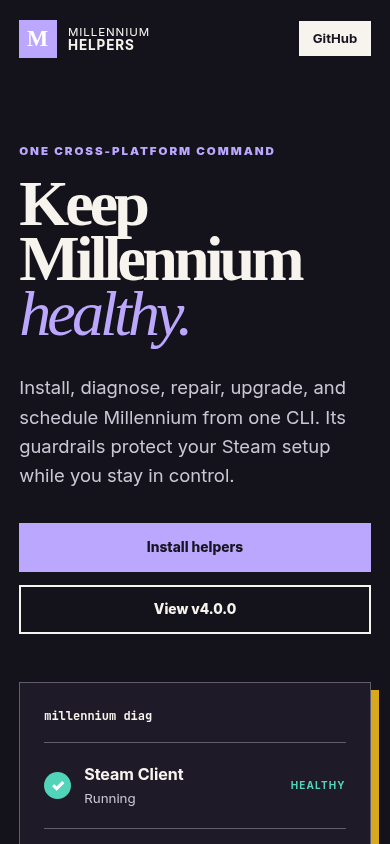
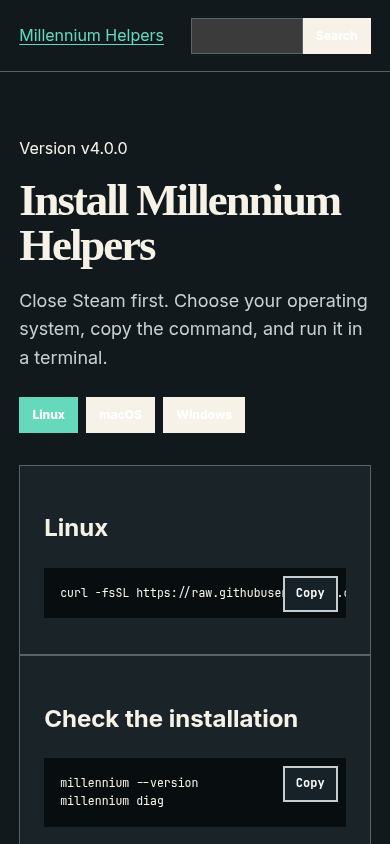
feat(pages): add task-oriented user guides

diff --git a/site/index.html b/site/index.html
@@ -4,17 +4,25 @@
   <meta charset="utf-8">
   <meta name="viewport" content="width=device-width, initial-scale=1">
   <meta name="description" content="Millennium Helpers installs, repairs, updates, and diagnoses Millennium on Linux, macOS, and Windows.">
+  <meta property="og:title" content="Millennium Helpers — keep Millennium healthy">
+  <meta property="og:description" content="Install, diagnose, repair, and update Millennium with plain-language guidance.">
+  <meta property="og:image" content="https://bolens.github.io/millennium-helpers/assets/og.png">
+  <meta name="twitter:card" content="summary_large_image">
   <meta name="theme-color" content="#17151f">
   <title>Millennium Helpers — keep Millennium healthy</title>
   <link rel="stylesheet" href="styles.css">
   <link rel="stylesheet" href="guide.css">
   <link rel="stylesheet" href="accessibility.css">
+  <link rel="stylesheet" href="assets/site.css">
+  <link rel="icon" href="assets/favicon.png" type="image/png">
+  <script src="assets/site.js" defer></script>
 </head>
-<body>
+<body data-root="">
   <a class="skip-link" href="#main">Skip to content</a>
   <header class="site-header">
-    <a class="brand" href="#top"><span class="brand-mark" aria-hidden="true">M</span><span>Millennium<br><b>Helpers</b></span></a>
-    <nav aria-label="Primary navigation"><a href="#install">Install</a><a href="#first-run">First steps</a><a href="#tasks">Common tasks</a><a href="#help">Get help</a><a class="github" href="https://github.com/bolens/millennium-helpers">GitHub</a></nav>
+    <a class="brand" href="./"><span class="brand-mark" aria-hidden="true">M</span><span>Millennium<br><b>Helpers</b></span></a>
+    <nav aria-label="Primary navigation"><a href="install/">Install</a><a href="guide/">Use it</a><a href="help/">Get help</a><a href="architecture/">How it works</a><a class="github" href="https://github.com/bolens/millennium-helpers">GitHub</a></nav>
+    <form class="header-search" action="search/" role="search"><label class="sr-only" for="home-search">Search the guides</label><input id="home-search" name="q" type="search" placeholder="Search guides"><button type="submit">Search</button></form>
   </header>
 
   <main id="main">
@@ -23,7 +31,7 @@
         <p class="kicker">One cross-platform command</p>
         <h1 id="hero-title">Keep Millennium <em>healthy.</em></h1>
         <p class="intro">Install, diagnose, repair, upgrade, and schedule Millennium from one CLI. Its guardrails protect your Steam setup while you stay in control.</p>
-        <div class="actions"><a class="button primary" href="#install">Install helpers</a><a class="button ghost" href="https://github.com/bolens/millennium-helpers/releases/latest">View v4.0.0</a></div>
+        <div class="actions"><a class="button primary" href="install/">Install helpers</a><a class="button ghost" href="https://github.com/bolens/millennium-helpers/releases/latest">View __SITE_VERSION__</a></div>
       </div>
       <div class="status-card" aria-label="Example Millennium diagnostic results">
         <p class="card-label">millennium diag</p>
@@ -44,7 +52,7 @@
         <article><span>03</span><h3>Repair</h3><code>millennium doctor</code><p>Apply targeted fixes with confirmation and dry-run support.</p></article>
         <article><span>04</span><h3>Maintain</h3><code>millennium upgrade</code><p>Update safely, roll back when needed, and manage themes.</p></article>
       </div>
-      <a class="architecture" href="docs/architecture/millennium-helpers.html">Explore the command architecture <span aria-hidden="true">↗</span></a>
+      <a class="architecture" href="architecture/">Learn how the helper works <span aria-hidden="true">↗</span></a>
     </section>
 
     <section class="safety" aria-labelledby="safety-title">
@@ -96,10 +104,10 @@ millennium config theme NAME</code></pre></article>
 
     <section class="technical" aria-labelledby="technical-title">
       <div><p class="kicker">Technical documentation</p><h2 id="technical-title">Packaging, automation, or integration?</h2><p>The repository contains command reference material, package-maintainer notes, MCP setup, release procedures, and contributor guidance.</p></div>
-      <ul><li><a href="https://github.com/bolens/millennium-helpers/tree/main/docs">Technical documentation</a></li><li><a href="docs/architecture/millennium-helpers.html">Interactive architecture map</a></li><li><a href="https://github.com/bolens/millennium-helpers/blob/main/spec/cli-contract.yaml">CLI contract</a></li><li><a href="https://github.com/bolens/millennium-helpers/blob/main/CONTRIBUTING.md">Contributing guide</a></li></ul>
+      <ul><li><a href="https://github.com/bolens/millennium-helpers/tree/main/docs">Technical documentation</a></li><li><a href="architecture/">How the helper works</a></li><li><a href="https://github.com/bolens/millennium-helpers/blob/main/spec/cli-contract.yaml">CLI contract</a></li><li><a href="https://github.com/bolens/millennium-helpers/blob/main/CONTRIBUTING.md">Contributing guide</a></li></ul>
     </section>
   </main>
 
-  <footer><p><strong>Millennium Helpers</strong> · Independent tooling for Millennium.</p><nav aria-label="Footer navigation"><a href="https://github.com/bolens/millennium-helpers/releases">Releases</a><a href="https://github.com/bolens/millennium-helpers/tree/main/docs">Guides</a><a href="https://github.com/bolens/millennium-helpers/blob/main/LICENSE">MIT License</a></nav></footer>
+  <footer><p><strong>Millennium Helpers</strong> · Independent tooling for Millennium.</p><nav aria-label="Footer navigation"><a href="https://github.com/bolens/millennium-helpers/releases">Releases</a><a href="https://github.com/bolens/millennium-helpers/tree/main/docs">Guides</a><a href="https://github.com/bolens/millennium-helpers/blob/main/LICENSE">MIT License</a><a href="https://github.com/bolens/millennium-helpers/issues/new?title=Pages%20feedback%3A%20&amp;body=Page%3A%20%0A%0AWhat%20would%20make%20this%20page%20more%20helpful%3F%0A">Was this site helpful?</a></nav></footer>
 </body>
 </html>

diff --git a/site/assets/site.css b/site/assets/site.css
@@ -1,0 +1,1 @@
+:root{--guide-bg:#f5f2e9;--guide-card:#fffdf7;--guide-ink:#141b21;--guide-muted:#4d5960;--guide-line:#b9b3a5;--guide-accent:#075f53;--guide-focus:#006dff;--guide-code:#0b1115;--guide-code-text:#f7f4e9;color-scheme:light;font-family:Inter,ui-sans-serif,system-ui,-apple-system,BlinkMacSystemFont,"Segoe UI",sans-serif;font-size:18px;line-height:1.6}*{box-sizing:border-box}html{scroll-behavior:smooth}body{margin:0;background:var(--guide-bg);color:var(--guide-ink)}a{color:var(--guide-accent);text-underline-offset:.2em}a:hover{text-decoration-thickness:3px}a:focus-visible,button:focus-visible,input:focus-visible,pre:focus-visible{outline:4px solid var(--guide-focus);outline-offset:3px}.sr-only{position:absolute!important;width:1px;height:1px;padding:0;margin:-1px;overflow:hidden;clip:rect(0,0,0,0);white-space:nowrap;border:0}.skip-link{position:fixed;z-index:20;left:1rem;top:1rem;transform:translateY(-180%);background:#fff;color:#000;padding:.6rem 1rem;font-weight:800}.skip-link:focus{transform:none}.docs-header{max-width:1120px;margin:auto;padding:1.1rem 2rem;display:flex;align-items:center;justify-content:space-between;border-bottom:1px solid var(--guide-line)}.docs-brand{color:var(--guide-ink);font-weight:900;text-decoration:none}.docs-nav{display:flex;align-items:center;gap:1rem}.docs-nav a{color:var(--guide-ink);font-size:.8rem;font-weight:750;text-decoration:none}.docs-search{display:flex}.docs-search input{width:10rem;border:1px solid var(--guide-line);background:var(--guide-card);color:var(--guide-ink);padding:.45rem .6rem}.docs-search button,.platform-picker button,.copy-button{border:2px solid var(--guide-ink);background:var(--guide-ink);color:#fff;font:inherit;font-size:.75rem;font-weight:850;padding:.4rem .7rem;cursor:pointer}.page-main{max-width:1120px;margin:auto;padding:5rem 2rem 7rem}.breadcrumbs{font-size:.78rem;margin-bottom:2rem}.page-hero{max-width:800px;margin-bottom:4rem}.page-kicker{text-transform:uppercase;letter-spacing:.15em;font-size:.7rem;font-weight:900;color:var(--guide-accent)}.page-hero h1{font-family:Georgia,"Times New Roman",serif;font-size:clamp(3rem,7vw,6rem);line-height:.95;letter-spacing:-.055em;margin:.3rem 0 1.2rem}.page-hero p{font-size:1.12rem;color:var(--guide-muted)}.page-grid{display:grid;grid-template-columns:repeat(2,1fr);gap:1rem}.doc-card{background:var(--guide-card);border:1px solid var(--guide-line);padding:1.6rem}.doc-card h2,.doc-card h3{margin-top:0}.doc-card p{color:var(--guide-muted)}pre{position:relative;background:var(--guide-code);color:var(--guide-code-text);padding:1rem 4.5rem 1rem 1rem;overflow:auto;font-size:.72rem}.copy-button{position:absolute;right:.5rem;top:.5rem;border-color:#c6cdd1;background:#172128}.platform-picker{display:flex;flex-wrap:wrap;gap:.5rem;margin:1.5rem 0 2rem}.platform-picker button[aria-pressed="true"]{background:var(--guide-accent);border-color:var(--guide-accent)}[hidden]{display:none!important}.task-list{border-top:1px solid var(--guide-line)}.task{padding:1.5rem 0;border-bottom:1px solid var(--guide-line);display:grid;grid-template-columns:1fr 1fr;gap:2rem;align-items:start}.task h2{margin-top:0}.callout{margin:2rem 0;padding:1.4rem;background:var(--guide-accent);color:#fff}.callout a{color:#fff}.search-page-form{display:flex;max-width:700px}.search-page-form input{flex:1;min-width:0;padding:.8rem;border:2px solid var(--guide-ink);font:inherit}.search-page-form button{border:2px solid var(--guide-ink);background:var(--guide-ink);color:#fff;padding:.8rem 1rem;font-weight:850}.search-results{list-style:none;padding:0;margin:2rem 0}.search-results li{padding:1rem 0;border-bottom:1px solid var(--guide-line)}.search-results a{font-size:1.1rem;font-weight:850}.search-results p{margin:.25rem 0;color:var(--guide-muted)}.feedback{margin-top:4rem;padding-top:2rem;border-top:1px solid var(--guide-line);font-size:.85rem}.docs-footer{max-width:1120px;margin:auto;padding:2rem;border-top:1px solid var(--guide-line);display:flex;justify-content:space-between;gap:1rem;font-size:.78rem}.docs-footer nav{display:flex;gap:1rem}@media(max-width:850px){.docs-nav>a{display:none}.page-grid,.task{grid-template-columns:1fr}.page-main{padding-top:3rem}}@media(max-width:520px){:root{font-size:16px}.docs-header,.page-main,.docs-footer{padding-inline:1.2rem}.docs-search input{width:7rem}.page-hero h1{font-size:3.25rem}.docs-footer{flex-direction:column}}@media(prefers-reduced-motion:reduce){html{scroll-behavior:auto}*{animation:none!important;transition:none!important}}@media(prefers-color-scheme:dark){:root{color-scheme:dark;--guide-bg:#12191d;--guide-card:#192328;--guide-ink:#f6f2e8;--guide-muted:#c7d0d4;--guide-line:#58636a;--guide-accent:#66d9bd;--guide-focus:#78aaff;--guide-code:#080d10}.docs-search button,.platform-picker button,.search-page-form button{background:#f6f2e8;color:#101820}.platform-picker button[aria-pressed="true"]{background:#064f46;color:#fff}.callout{background:#064f46}}@media(forced-colors: active){*{box-shadow:none!important}.copy-button,.platform-picker button,.docs-search button,.search-page-form button{border:2px solid ButtonText}.platform-picker button[aria-pressed="true"]{outline:3px solid Highlight}.callout{border:2px solid CanvasText}.sr-only{forced-color-adjust:none}}

diff --git a/site/assets/site.js b/site/assets/site.js
@@ -1,0 +1,122 @@
+(() => {
+  "use strict";
+
+  const root = document.body.dataset.root || "";
+  const live = document.createElement("p");
+  live.className = "sr-only";
+  live.setAttribute("aria-live", "polite");
+  document.body.append(live);
+
+  const copyText = async (text) => {
+    if (navigator.clipboard && window.isSecureContext) {
+      await navigator.clipboard.writeText(text);
+      return;
+    }
+    const area = document.createElement("textarea");
+    area.value = text;
+    area.setAttribute("readonly", "");
+    area.style.position = "fixed";
+    area.style.opacity = "0";
+    document.body.append(area);
+    area.select();
+    document.execCommand("copy");
+    area.remove();
+  };
+
+  document.querySelectorAll("pre").forEach((pre) => {
+    if (!pre.querySelector("code") || pre.querySelector(".copy-button")) return;
+    const button = document.createElement("button");
+    button.type = "button";
+    button.className = "copy-button";
+    button.textContent = "Copy";
+    button.setAttribute("aria-label", "Copy command");
+    button.addEventListener("click", async () => {
+      try {
+        await copyText(pre.querySelector("code").innerText);
+        button.textContent = "Copied";
+        live.textContent = "Command copied to clipboard.";
+        window.setTimeout(() => {
+          button.textContent = "Copy";
+        }, 1800);
+      } catch {
+        live.textContent = "Copy failed. Select the command and copy it manually.";
+      }
+    });
+    pre.append(button);
+  });
+
+  const platformButtons = [...document.querySelectorAll("[data-os]")];
+  const platformPanels = [...document.querySelectorAll("[data-platforms]")];
+  const selectPlatform = (platform) => {
+    platformButtons.forEach((button) => {
+      button.setAttribute("aria-pressed", String(button.dataset.os === platform));
+    });
+    platformPanels.forEach((panel) => {
+      panel.hidden = !panel.dataset.platforms.split(" ").includes(platform);
+    });
+    try {
+      localStorage.setItem("docs-platform", platform);
+    } catch {}
+  };
+  if (platformButtons.length) {
+    platformButtons.forEach((button) => {
+      button.addEventListener("click", () => selectPlatform(button.dataset.os));
+    });
+    let selected;
+    try {
+      selected = localStorage.getItem("docs-platform");
+    } catch {}
+    if (!selected) {
+      const platform = navigator.platform.toLowerCase();
+      selected = platform.includes("win") ? "windows" : platform.includes("mac") ? "macos" : "linux";
+    }
+    if (!platformButtons.some((button) => button.dataset.os === selected)) selected = platformButtons[0].dataset.os;
+    selectPlatform(selected);
+  }
+
+  const searchForm = document.querySelector("[data-search-form]");
+  if (searchForm && !document.querySelector("[data-search-results]")) {
+    searchForm.addEventListener("submit", (event) => {
+      event.preventDefault();
+      const query = new FormData(searchForm).get("q");
+      window.location.href = root + "search/?q=" + encodeURIComponent(query);
+    });
+  }
+
+  const results = document.querySelector("[data-search-results]");
+  if (results) {
+    const input = document.querySelector("[data-search-input]");
+    const count = document.querySelector("[data-search-count]");
+    const runSearch = async () => {
+      const query = input.value.trim().toLowerCase();
+      const response = await fetch(root + "search-index.json");
+      const records = await response.json();
+      const matches = query
+        ? records.filter((record) => (record.title + " " + record.summary + " " + record.keywords).toLowerCase().includes(query))
+        : records;
+      results.replaceChildren(...matches.map((record) => {
+        const item = document.createElement("li");
+        const link = document.createElement("a");
+        link.href = root + record.url;
+        link.textContent = record.title;
+        const summary = document.createElement("p");
+        summary.textContent = record.summary;
+        item.append(link, summary);
+        return item;
+      }));
+      count.textContent = matches.length + (matches.length === 1 ? " result" : " results");
+    };
+    const initial = new URLSearchParams(window.location.search).get("q") || "";
+    input.value = initial;
+    document.querySelector("[data-search-form]").addEventListener("submit", (event) => {
+      event.preventDefault();
+      const url = new URL(window.location.href);
+      url.searchParams.set("q", input.value);
+      history.replaceState({}, "", url);
+      runSearch();
+    });
+    runSearch().catch(() => {
+      count.textContent = "Search is unavailable. Use the navigation links instead.";
+    });
+  }
+})();

diff --git a/site/install/index.html b/site/install/index.html
@@ -1,0 +1,3 @@
+<!doctype html><html lang="en"><head><meta charset="utf-8"><meta name="viewport" content="width=device-width,initial-scale=1"><meta name="description" content="Install Millennium Helpers on Linux, macOS, or Windows."><meta property="og:title" content="Install Millennium Helpers"><meta property="og:description" content="Choose your operating system and install Millennium Helpers."><meta property="og:image" content="https://bolens.github.io/millennium-helpers/assets/og.png"><title>Install | Millennium Helpers</title><link rel="icon" href="../assets/favicon.png"><link rel="stylesheet" href="../assets/site.css"><link rel="stylesheet" href="../assets/millennium.css"><script src="../assets/site.js" defer></script></head><body data-root="../"><a class="skip-link" href="#main">Skip to content</a><header class="docs-header"><a href="../">Millennium Helpers</a><nav aria-label="Primary"><a aria-current="page" href="./">Install</a><a href="../guide/">Use it</a><a href="../help/">Get help</a><a href="../architecture/">How it works</a></nav><form class="header-search" action="../search/" role="search"><label class="visually-hidden" for="search">Search guides</label><input id="search" name="q" type="search"><button>Search</button></form></header><main id="main" class="docs-main"><p class="eyebrow">Version __SITE_VERSION__</p><h1>Install Millennium Helpers</h1><p class="lede">Close Steam first. Choose your operating system, copy the command, and run it in a terminal.</p><div class="os-picker" aria-label="Operating system"><button data-os="linux" aria-pressed="true">Linux</button><button data-os="macos" aria-pressed="false">macOS</button><button data-os="windows" aria-pressed="false">Windows</button></div><section data-platforms="linux"><h2>Linux</h2><pre><code>curl -fsSL https://raw.githubusercontent.com/bolens/millennium-helpers/main/install.sh | bash -s -- install</code></pre></section><section data-platforms="macos" hidden><h2>macOS</h2><pre><code>brew tap bolens/tap
+brew install millennium-helpers</code></pre></section><section data-platforms="windows" hidden><h2>Windows</h2><pre><code>winget install bolens.millenniumhelpers</code></pre><p>Scoop is also supported from the project manifest.</p></section><section><h2>Check the installation</h2><pre><code>millennium --version
+millennium diag</code></pre><p>The diagnostic command reads your setup and does not change files.</p></section><p><a class="button" href="../guide/">Continue to the first steps</a></p></main><footer><a href="https://github.com/bolens/millennium-helpers/issues/new?title=Pages%20feedback%3A%20Install&amp;body=Page%3A%20install%0A%0AWhat%20would%20make%20this%20page%20more%20helpful%3F">Was this page helpful?</a></footer></body></html>

diff --git a/site/guide/index.html b/site/guide/index.html
@@ -1,0 +1,2 @@
+<!doctype html><html lang="en"><head><meta charset="utf-8"><meta name="viewport" content="width=device-width,initial-scale=1"><meta name="description" content="Use Millennium Helpers for health checks, repairs, updates, themes, and plugins."><meta property="og:title" content="Use Millennium Helpers"><meta property="og:description" content="Plain-language steps for common Millennium maintenance tasks."><meta property="og:image" content="https://bolens.github.io/millennium-helpers/assets/og.png"><title>Use it | Millennium Helpers</title><link rel="icon" href="../assets/favicon.png"><link rel="stylesheet" href="../assets/site.css"><link rel="stylesheet" href="../assets/millennium.css"><script src="../assets/site.js" defer></script></head><body data-root="../"><a class="skip-link" href="#main">Skip to content</a><header class="docs-header"><a href="../">Millennium Helpers</a><nav aria-label="Primary"><a href="../install/">Install</a><a aria-current="page" href="./">Use it</a><a href="../help/">Get help</a><a href="../architecture/">How it works</a></nav></header><main id="main" class="docs-main"><p class="eyebrow">Everyday guide</p><h1>Keep Millennium working</h1><p class="lede">Start with a health check. Close Steam before a repair, update, or rollback.</p><div class="task-grid"><article><h2 id="check-your-setup">Check your setup</h2><pre><code>millennium diag</code></pre><p>This is safe to run first because it only reads your setup.</p></article><article><h2 id="repair-a-reported-problem">Repair a reported problem</h2><pre><code>millennium doctor</code></pre><p>Review every proposed change before confirming it.</p></article><article><h2 id="update-millennium">Update Millennium</h2><pre><code>millennium upgrade</code></pre></article><article><h2>Enable daily updates</h2><pre><code>millennium schedule enable stable</code></pre></article><article><h2 id="choose-a-theme">Choose a theme</h2><pre><code>millennium theme list
+millennium config theme NAME</code></pre></article><article><h2>Manage plugins</h2><pre><code>millennium config plugins</code></pre></article></div><p><a href="../help/">Something went wrong? Open the help guide.</a></p></main><footer><a href="https://github.com/bolens/millennium-helpers/issues/new?title=Pages%20feedback%3A%20Guide&amp;body=Page%3A%20guide%0A%0AWhat%20would%20make%20this%20page%20more%20helpful%3F">Was this page helpful?</a></footer></body></html>

diff --git a/site/help/index.html b/site/help/index.html
@@ -1,0 +1,1 @@
+<!doctype html><html lang="en"><head><meta charset="utf-8"><meta name="viewport" content="width=device-width,initial-scale=1"><meta name="description" content="Solve common Millennium installation, update, theme, and plugin problems."><meta property="og:title" content="Millennium Helpers help"><meta property="og:description" content="Start with the symptom and follow a focused recovery step."><meta property="og:image" content="https://bolens.github.io/millennium-helpers/assets/og.png"><title>Get help | Millennium Helpers</title><link rel="icon" href="../assets/favicon.png"><link rel="stylesheet" href="../assets/site.css"><link rel="stylesheet" href="../assets/millennium.css"><script src="../assets/site.js" defer></script></head><body data-root="../"><a class="skip-link" href="#main">Skip to content</a><header class="docs-header"><a href="../">Millennium Helpers</a><nav aria-label="Primary"><a href="../install/">Install</a><a href="../guide/">Use it</a><a aria-current="page" href="./">Get help</a><a href="../architecture/">How it works</a></nav></header><main id="main" class="docs-main"><p class="eyebrow">Troubleshooting</p><h1>Start with what you see</h1><div class="task-grid"><article><h2>Steam starts without Millennium</h2><p>Close Steam, run <code>millennium diag</code>, then run <code>millennium doctor</code> if the hook check fails.</p></article><article><h2>An update did not finish</h2><p>Keep Steam closed. Run the diagnostic command, then retry <code>millennium upgrade</code>.</p></article><article><h2>A theme or plugin causes trouble</h2><p>Run <code>millennium config plugins</code>, disable the recent change, save, and restart Steam.</p></article><article><h2>You need to share a report</h2><pre><code>millennium diag --share</code></pre><p>Review the sanitized report before sharing its link.</p></article></div><h2>Still stuck?</h2><p><a href="https://github.com/bolens/millennium-helpers/issues/new?title=Support%3A%20&amp;body=Operating%20system%3A%20%0AHelpers%20version%3A%20%0AWhat%20happened%3A%20%0ADiagnostic%20output%3A%20">Open a support issue with the useful fields ready</a>.</p></main><footer><a href="https://github.com/bolens/millennium-helpers/issues/new?title=Pages%20feedback%3A%20Help&amp;body=Page%3A%20help%0A%0AWhat%20would%20make%20this%20page%20more%20helpful%3F">Was this page helpful?</a></footer></body></html>

diff --git a/site/architecture/index.html b/site/architecture/index.html
@@ -1,0 +1,1 @@
+<!doctype html><html lang="en"><head><meta charset="utf-8"><meta name="viewport" content="width=device-width,initial-scale=1"><meta name="description" content="A plain-language introduction to how Millennium Helpers works."><meta property="og:title" content="How Millennium Helpers works"><meta property="og:description" content="Understand the command, safety, platform, and release layers before opening the technical map."><meta property="og:image" content="https://bolens.github.io/millennium-helpers/assets/og.png"><title>How it works | Millennium Helpers</title><link rel="icon" href="../assets/favicon.png"><link rel="stylesheet" href="../assets/site.css"><link rel="stylesheet" href="../assets/millennium.css"><script src="../assets/site.js" defer></script></head><body data-root="../"><a class="skip-link" href="#main">Skip to content</a><header class="docs-header"><a href="../">Millennium Helpers</a><nav aria-label="Primary"><a href="../install/">Install</a><a href="../guide/">Use it</a><a href="../help/">Get help</a><a aria-current="page" href="./">How it works</a></nav></header><main id="main" class="docs-main"><p class="eyebrow">System overview</p><h1>How Millennium Helpers works</h1><p class="lede">One command coordinates platform-specific work while keeping risky changes visible and recoverable.</p><ol class="architecture-steps"><li><strong>You choose a task.</strong> Commands cover diagnosis, repair, updates, schedules, themes, and plugins.</li><li><strong>Safety checks run first.</strong> The helper checks Steam state, validates inputs, and offers previews or confirmation where needed.</li><li><strong>The platform adapter does the work.</strong> Linux, macOS, and Windows use the same command contract with native paths and schedulers.</li><li><strong>You receive a clear result.</strong> Diagnostics and logs explain what changed and what to do next.</li></ol><p><a class="button" href="../docs/architecture/millennium-helpers.html">Open the interactive technical topology</a></p><p>The topology is keyboard accessible and includes a text description for each system area.</p></main><footer><a href="https://github.com/bolens/millennium-helpers/issues/new?title=Pages%20feedback%3A%20Architecture&amp;body=What%20was%20unclear%3F%20">Was this explanation clear?</a></footer></body></html>

diff --git a/site/assets/millennium.css b/site/assets/millennium.css
@@ -1,0 +1,1 @@
+.docs-main{max-width:1120px;margin:auto;padding:5rem 2rem 7rem}.docs-main>h1{font-family:Georgia,"Times New Roman",serif;font-size:clamp(2.8rem,7vw,5.5rem);line-height:1;letter-spacing:-.045em;margin:.4rem 0 1.2rem}.docs-main>.lede{max-width:760px;font-size:1.12rem;color:var(--guide-muted)}.docs-header>nav{display:flex;gap:1rem}.docs-header>nav a{color:var(--guide-ink);font-size:.8rem;font-weight:750;text-decoration:none}.header-search{display:flex}.header-search input{width:10rem;padding:.45rem;border:1px solid var(--guide-line)}.header-search button,.os-picker button{border:2px solid var(--guide-ink);background:var(--guide-ink);color:#fff;font:inherit;font-size:.75rem;font-weight:850;padding:.4rem .7rem}.os-picker{display:flex;gap:.5rem;margin:1.5rem 0 2rem}.os-picker button[aria-pressed="true"]{background:var(--guide-accent);border-color:var(--guide-accent)}.task-grid{display:grid;grid-template-columns:repeat(2,1fr);gap:1rem;margin:2rem 0}.task-grid article,.docs-main>section{background:var(--guide-card);border:1px solid var(--guide-line);padding:1.5rem}.docs-main pre{position:relative;background:var(--guide-code);color:var(--guide-code-text);padding:1rem 4.5rem 1rem 1rem;overflow:auto}.docs-main+footer{max-width:1120px;margin:auto;padding:2rem;border-top:1px solid var(--guide-line)}.architecture-steps{max-width:760px}.architecture-steps li{margin:1rem 0}.visually-hidden{position:absolute!important;width:1px;height:1px;padding:0;margin:-1px;overflow:hidden;clip:rect(0,0,0,0);white-space:nowrap;border:0}@media(max-width:850px){.docs-header>nav a{display:none}.task-grid{grid-template-columns:1fr}.docs-main{padding-top:3rem}}@media(max-width:520px){.docs-main{padding-inline:1.2rem}.header-search input{width:7rem}}@media(forced-colors: active){.os-picker button,.header-search button{border:2px solid ButtonText}.os-picker button[aria-pressed="true"]{outline:3px solid Highlight}}

diff --git a/site/search/index.html b/site/search/index.html
@@ -1,0 +1,1 @@
+<!doctype html><html lang="en"><head><meta charset="utf-8"><meta name="viewport" content="width=device-width,initial-scale=1"><meta name="description" content="Search the Millennium Helpers user guides."><meta property="og:title" content="Search Millennium Helpers guides"><meta property="og:description" content="Find installation, maintenance, and troubleshooting instructions."><meta property="og:image" content="https://bolens.github.io/millennium-helpers/assets/og.png"><title>Search | Millennium Helpers</title><link rel="icon" href="../assets/favicon.png"><link rel="stylesheet" href="../assets/site.css"><link rel="stylesheet" href="../assets/millennium.css"><script src="../assets/site.js" defer></script></head><body data-root="../"><a class="skip-link" href="#main">Skip to content</a><header class="docs-header"><a href="../">Millennium Helpers</a><nav aria-label="Primary"><a href="../install/">Install</a><a href="../guide/">Use it</a><a href="../help/">Get help</a></nav></header><main id="main" class="docs-main"><h1>Search the guides</h1><form role="search" data-search-form><label for="page-search">What do you need help with?</label><div class="search-row"><input id="page-search" data-search-input name="q" type="search" autofocus><button>Search</button></div></form><p id="search-status" data-search-count aria-live="polite"></p><ul id="search-results" class="search-results" data-search-results></ul></main><footer><a href="https://github.com/bolens/millennium-helpers/issues/new?title=Pages%20feedback%3A%20Search&amp;body=What%20did%20you%20expect%20to%20find%3F%20">Could not find something?</a></footer></body></html>

diff --git a/docs/site-evidence/README.md b/docs/site-evidence/README.md
@@ -5,17 +5,21 @@ The Pages landing page was rendered from `site/` and inspected at these viewport
 | Viewport | Evidence | Layout result |
 | --- | --- | --- |
 | 1440 × 1000 | [Desktop](desktop.png) | Two-column hero, full navigation, balanced diagnostic card and platform strip |
-| 390 × 844 | [Mobile](mobile.png) | Single-column flow, full-width actions, compact navigation, no horizontal page overflow |
+| 390 × 844 | [Mobile install guide](mobile.png) | Operating-system choices and command cards reflow without horizontal page overflow |
+| 1440 × 1000 | [Forced colors](forced-colors.png) | Navigation, code, buttons, borders, and focus affordances remain distinct in Chromium high-contrast mode |
+| 720 × 500 at 2× scale | [200% scale](zoom-200.png) | Troubleshooting content remains readable without clipped text or overlapping controls |
 | 1440 × 6000 | [Full desktop guide](guide-desktop.png) | Platform installs, first-run checks, common tasks, help, and technical handoff |
 | 390 × 6000 | [Full mobile guide](guide-mobile.png) | User guide reflows into one readable column with scrollable commands |
 
-Lighthouse 13.4.1 reported an accessibility score of **100/100** with no failed binary audits on August 31, 2026. Separate light- and dark-mode runs covered accessible names, landmarks, heading order, link names, focusable controls, and color contrast.
+Lighthouse 12.8.2 reported an accessibility score of **100/100** with no failed accessibility audits on August 31, 2026. The rendered checks cover accessible names, landmarks, heading order, link names, focusable controls, color contrast, and touch-target spacing.
 
 The layout also provides:
 
 - a keyboard-visible skip link and focus indicator;
+- keyboard-operable copy buttons and operating-system choices with live status updates;
 - semantic header, navigation, main, section, article, list, description-list, and footer landmarks;
 - hidden decorative marks and descriptive labels for diagnostic and install examples;
 - reflow breakpoints at 850 and 480 CSS pixels;
 - a reduced-motion mode that disables smooth scrolling and animation;
 - light and dark palettes with contrast validated in the rendered page.
+- forced-color rules that preserve control boundaries and selected states.
